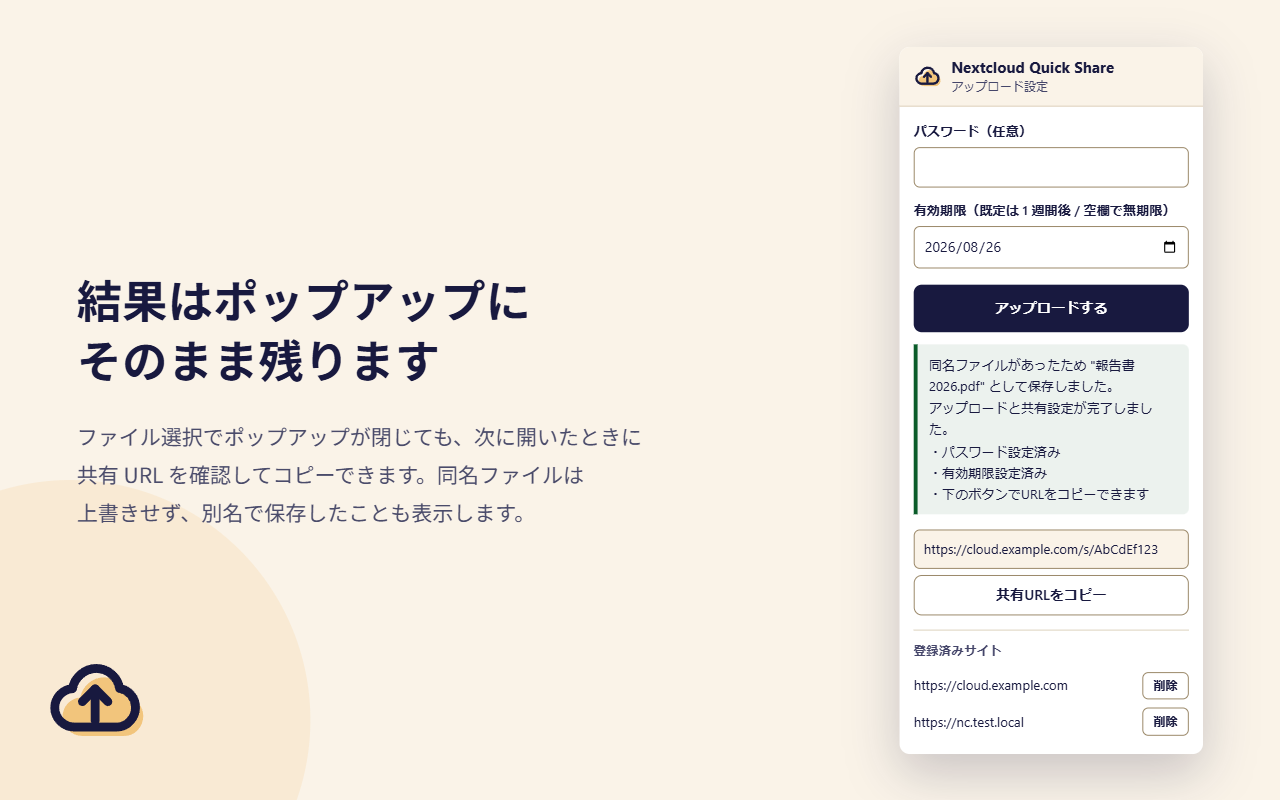
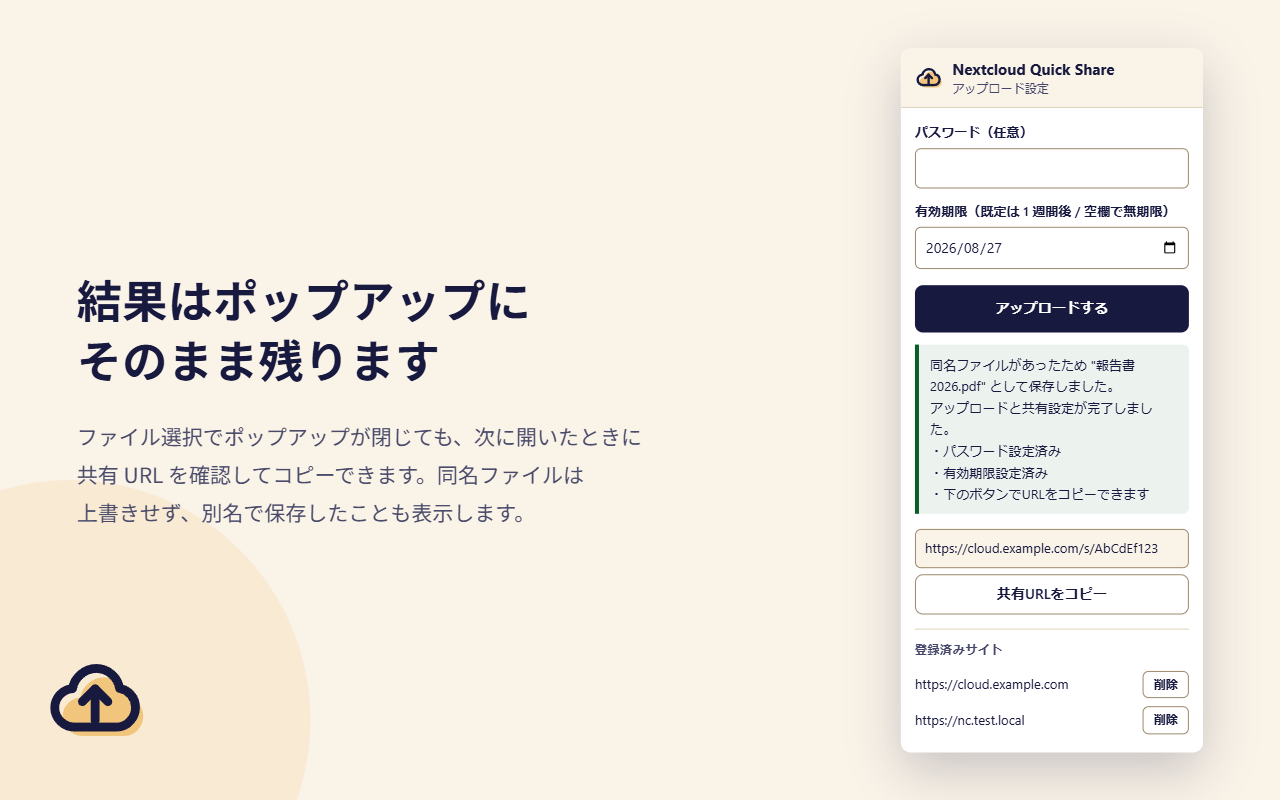
storeの削除　不要サイズは削除

diff --git a/store/build/build.html b/store/build/build.html
@@ -18,11 +18,9 @@ const wait = (ms) => new Promise((r) => setTimeout(r, ms));
 
 /* ---------- 出力する画像の規格 ---------- */
 
-// スクリーンショットは各ストアの規定サイズをすべて書き出す。
+// スクリーンショットは Chrome ウェブストア規定の 1280x800 だけを書き出す。
 const SHOT_FORMATS = [
-    { w: 1366, h: 768, note: "Edge アドオン" },
-    { w: 1280, h: 800, note: "Chrome ウェブストア" },
-    { w: 640, h: 400, note: "Chrome ウェブストア（小）" },
+    { w: 1280, h: 800, note: "Chrome ウェブストア / Edge アドオン" },
 ];
 
 const SHOTS = [

diff --git a/store/README.md b/store/README.md
@@ -9,15 +9,13 @@ npm run build:store
 サーバーが起動したら `http://localhost:8733/build.html` をブラウザで開くだけで、
 `store/` に書き出されます（開いた時点で自動生成・自動保存されます）。
 
-両ストアの規定サイズをすべて書き出します（合計 11 点）。
+スクリーンショットは 1280×800 の 1 サイズだけを書き出します（合計 5 点）。
 
 | ファイル | サイズ | 用途 |
 | --- | --- | --- |
 | `store/logo-300.png` | 300×300 | Edge アドオンのストアロゴ |
 | `store/promo-440x280.png` | 440×280 | Chrome ウェブストアの小型プロモタイル |
-| `store/screenshot-{1,2,3}-1366x768.png` | 1366×768 | Edge アドオン用スクリーンショット |
-| `store/screenshot-{1,2,3}-1280x800.png` | 1280×800 | Chrome ウェブストア用スクリーンショット |
-| `store/screenshot-{1,2,3}-640x400.png` | 640×400 | Chrome ウェブストア用（小サイズ枠） |
+| `store/screenshot-{1,2,3}-1280x800.png` | 1280×800 | スクリーンショット（Chrome ウェブストア／Edge アドオン共通） |
 
 スクリーンショットの内容は 3 種類です。
 
@@ -30,5 +28,5 @@ npm run build:store
 手描きのモックと違って実装と食い違いません。UI を変えたら再実行してください。
 
 見出しと説明文を変えるときは `store/build/build.html` の `SHOTS` を、
-書き出すサイズを変えるときは `SHOT_FORMATS` を編集します。640×400 のような
-横幅の狭い規格では、強制改行を無効にして自然改行に任せるようにしてあります。
+書き出すサイズを変えるときは `SHOT_FORMATS` を編集します。横幅 900px 未満の
+規格を足したときは、強制改行を無効にして自然改行に任せるようになっています。
